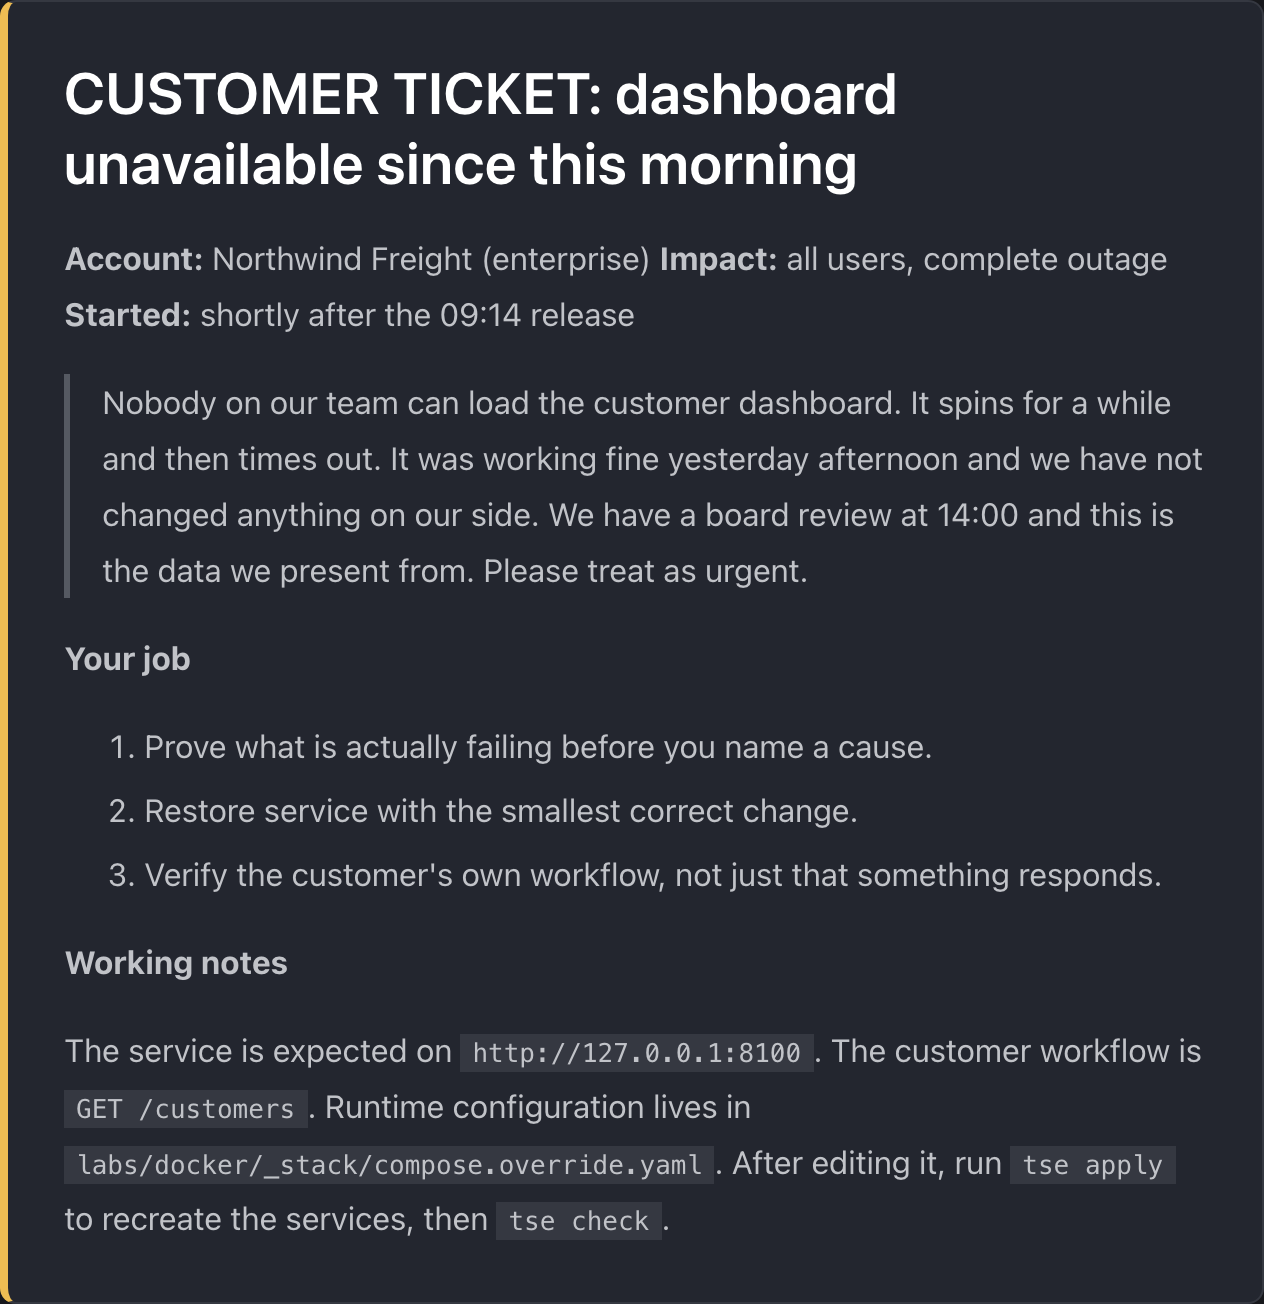
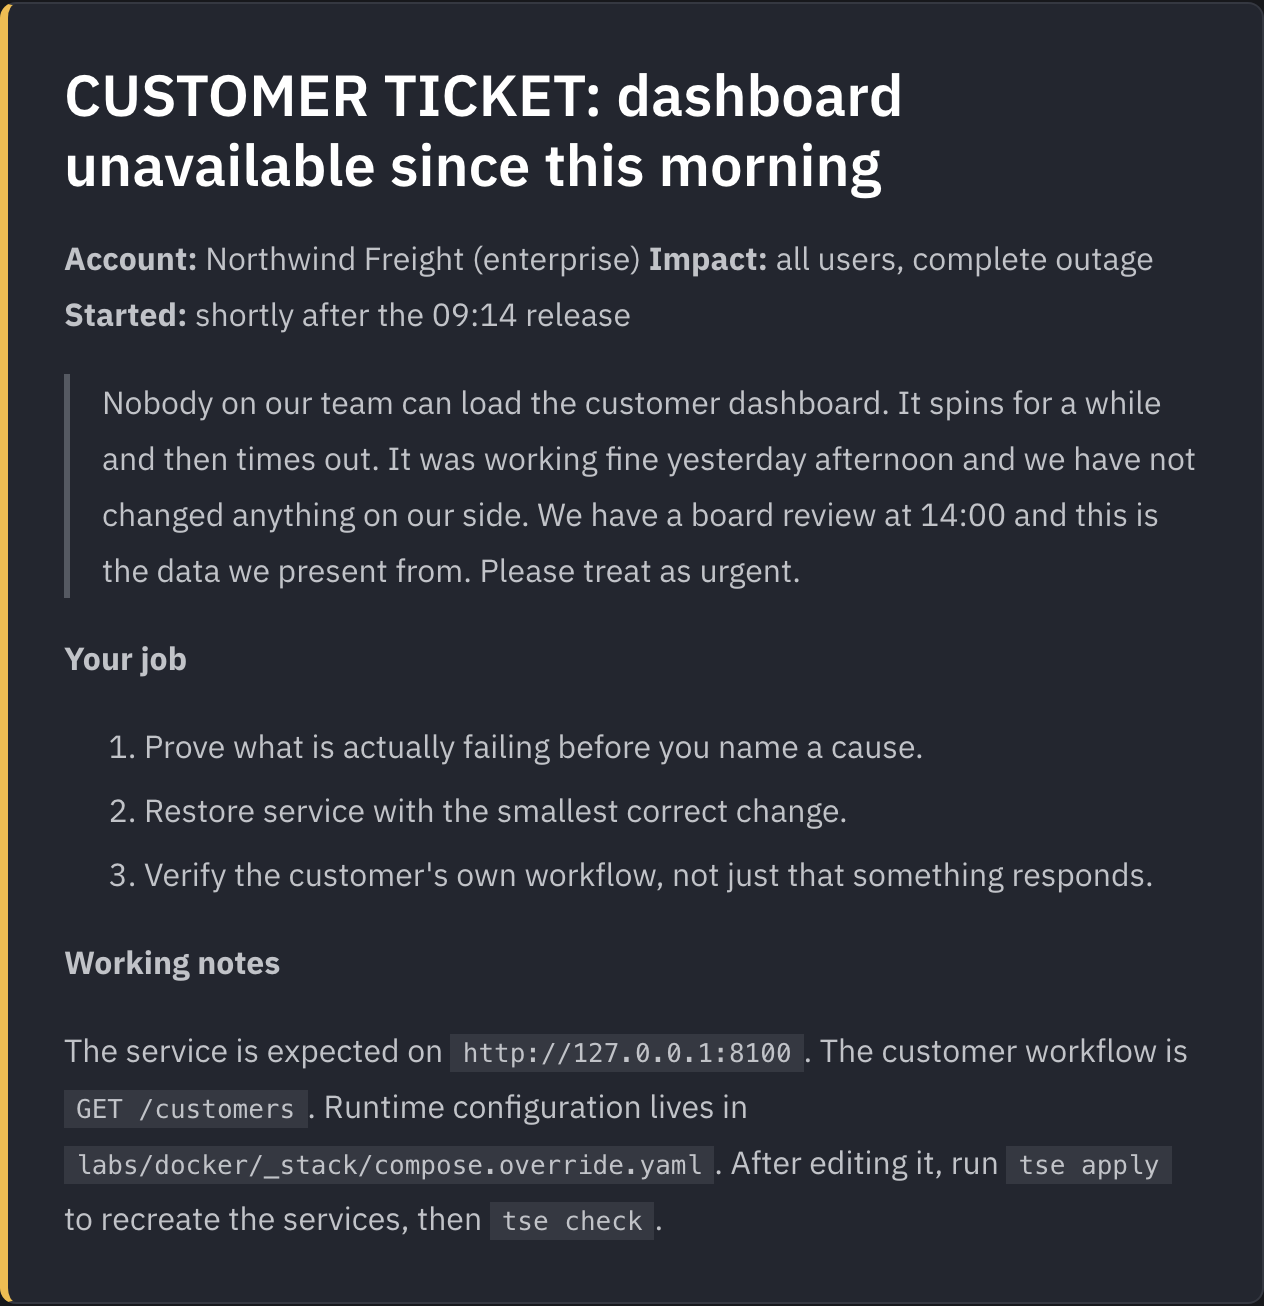
Give the site a face, and measure what a face costs
The site read as a documentation template because it was one. Starlight's
default typeface is whatever sans-serif the reader's operating system
supplies, which is a different face on every machine and nobody's decision,
and the home page described the course rather than running it.

Type. IBM Plex Sans, under the SIL Open Font License, from the pinned
@fontsource-variable dependency rather than committed here, so there is one
copy and the lockfile records where it came from. Three measurements rather
than three guesses: the weight axis and not the width axis saves 19,776
bytes, dropping italic saves a further 50,184 against the four <em> elements
in the entire built site, and the latin subset covers every word of it.

Color. One accent, and teal because of what the palette already meant. Green
is a correct answer, red is a wrong one, and the orange rule down a ticket is
the customer's problem. All three were here first and are load-bearing, so an
accent sharing a hue with any of them would be a link that looks like a
judgement. The values were adjusted until the accessibility gate stopped
complaining rather than until they looked about right.

The home page now runs the course instead of describing it. It opened with
four cards explaining that the tickets are symptom-only and the terminal
replays real output. Every word was true and none of it was evidence, on a
site whose whole argument is that those are different things. A reader now
[…]

diff --git a/site/src/styles/custom.css b/site/src/styles/custom.css
@@ -9,7 +9,81 @@
  *    background gray-3 measures 4.49:1, which fails AA by a hair.
  */
 
+/* --------------------------------------------------------------------- type
+ *
+ * One typeface, one file, served from this origin.
+ *
+ * The site read as a documentation template because it was one: Starlight's
+ * default is whatever sans-serif the reader's operating system happens to
+ * supply, which is a different face on every machine and nobody's decision.
+ *
+ * IBM Plex Sans, under the SIL Open Font License. It comes from the pinned
+ * @fontsource-variable/ibm-plex-sans dependency rather than being committed
+ * here, so there is exactly one copy, the lockfile records where it came from,
+ * and Dependabot watches it like everything else. The CSP is `font-src 'self'`
+ * and `default-src 'none'`, so a webfont from anywhere else would be refused by
+ * the browser rather than merely discouraged.
+ *
+ * Three choices, all measured rather than assumed:
+ *
+ *  - The weight axis only, not the width axis. 45,712 bytes against 65,488,
+ *    and nothing here uses a condensed or extended width.
+ *  - Upright only, no italic. That saves a further 50,184 bytes, which is more
+ *    than the font itself, and the whole built site contains four <em> elements
+ *    across three of its thirty two pages. Those four get a synthetic oblique.
+ *    Buying a second file for them would be the worst trade on the page.
+ *  - Latin subset only. Every word of this course is in English, and the
+ *    unicode-range below means a reader who lands on text outside it gets their
+ *    system font rather than a download that could not render it anyway.
+ */
+@font-face {
+  font-family: "IBM Plex Sans";
+  src: url("@fontsource-variable/ibm-plex-sans/files/ibm-plex-sans-latin-wght-normal.woff2")
+    format("woff2-variations");
+  font-weight: 100 700;
+  font-style: normal;
+  /* swap, not optional. The face is this site's identity rather than a
+   * refinement of it, so text arriving in the system font and never being
+   * replaced is the wrong failure. It is one same-origin request. */
+  font-display: swap;
+  unicode-range: U+0000-00FF, U+0131, U+0152-0153, U+02BB-02BC, U+02C6, U+02DA,
+    U+02DC, U+0304, U+0308, U+0329, U+2000-206F, U+20AC, U+2122, U+2191, U+2193,
+    U+2212, U+2215, U+FEFF, U+FFFD;
+}
+
+/* -------------------------------------------------------------------- color
+ *
+ * One accent, chosen around what the palette already means.
+ *
+ * Green is a correct answer, red is a wrong one, and the orange rule down the
+ * side of a ticket is the customer's problem. Those three are load-bearing and
+ * were here first, so the accent had to be none of them: an accent sharing a
+ * hue with a verdict is a link that looks like a judgement.
+ *
+ * Teal is what was left, and it happens to be right. It reads as instrument
+ * rather than alarm, which is the register this whole course is written in.
+ *
+ * Starlight is dark-first for these three, so the bare :root block is the dark
+ * theme and the [data-theme="light"] block overrides it. That is the opposite
+ * way round from the --proveit-* verdict colors below, which is Starlight's
+ * convention rather than a choice made here, and worth knowing before editing
+ * either.
+ *
+ * Contrast is not asserted in this comment, because a comment cannot check it.
+ * `npm run a11y` measures every pairing on every page in both themes, and these
+ * values were adjusted until it stopped complaining rather than until they
+ * looked about right.
+ */
 :root {
+  /* Starlight already falls back to --sl-font-system on its own, so a reader
+   * who blocks fonts, or who arrives before this one has loaded, gets exactly
+   * what they got before rather than a bare serif. */
+  --sl-font: "IBM Plex Sans";
+
+  --sl-color-accent-low: #10333a;
+  --sl-color-accent: #17808f;
+  --sl-color-accent-high: #93d8e2;
+
   --proveit-radius: 0.5rem;
   --proveit-gap: 1rem;
   --proveit-rule: 1px solid var(--sl-color-gray-5);
@@ -21,11 +95,46 @@
   --proveit-wrong: #b91c1c;
 }
 
+:root[data-theme="light"] {
+  --sl-color-accent-low: #c6e8ed;
+  --sl-color-accent: #0e6b79;
+  --sl-color-accent-high: #0a3b43;
+}
+
 /* Starlight toggles the theme with data-theme, so the dark values hang off
  * that rather than off prefers-color-scheme. */
 :root[data-theme="dark"] {
   --proveit-correct: #4ade80;
   --proveit-wrong: #fca5a5;
+}
+
+/* --------------------------------------------------------------- the hero */
+
+/* Starlight's splash hero is laid out around an image, and this page has none.
+ *
+ * Two consequences, both measured on the built page rather than guessed at.
+ * The grid is `7fr 4fr`, so the tagline was squeezed into two thirds of the
+ * width while the remaining third sat empty. And the block padding is
+ * `clamp(2.5rem, 1rem + 10vmin, 10rem)`, which is generous when it is balancing
+ * a picture and is a third of a screen of nothing when it is balancing nothing:
+ * on a 1100px viewport there were 365 pixels between the buttons and the first
+ * real content on the page.
+ *
+ * The width query matches Starlight's own so the two cannot disagree, and the
+ * selectors here are plain classes because Starlight wraps its own in :where(),
+ * which carries no specificity and is meant to be overridden exactly like this.
+ */
+@media (min-width: 50rem) {
+  .hero {
+    grid-template-columns: 100%;
+    padding-block: clamp(2rem, 1rem + 4vmin, 4.5rem) clamp(1.5rem, 1rem + 2vmin, 2.5rem);
+  }
+
+  /* A tagline running the full width of a wide screen is a different
+   * readability problem from the one just fixed. */
+  .hero .copy {
+    max-width: 46rem;
+  }
 }
 
 /* ------------------------------------------------------------------ tiers */
